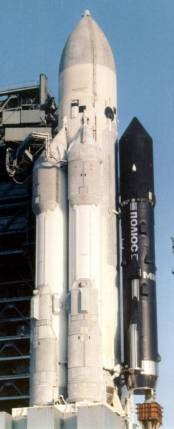
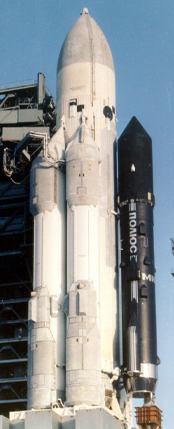
energia gallery image upd and caption test

diff --git a/b14643/Spacerockets_1/East_Europe_2/Energiya/Gallery/Energiya.htm b/b14643/Spacerockets_1/East_Europe_2/Energiya/Gallery/Energiya.htm
@@ -22,18 +22,24 @@
   <tr>
     <td width="48%" height="1" nowrap>
     <p align="center"><font size="1">
-    <img border="0" src="En_19.jpg" width="244" height="369"></font></p>
+    <a target="_blank" style="padding: 0" href="En_19big.jpg">
+    <img border="1" src="En_19.jpg" width="258" height="391"></a></font></p>
     </td>
     <td valign="top" width="52%" height="1" nowrap>
     <p align="center"><font size="1"><br>
-    <img border="0" src="En_41.JPG" width="260" height="391"></font></p>
+    <a style="padding: 0" target="_blank" href="En_41big.jpg">
+    <img border="1" src="En_41big.jpg" width="256" height="391"></a></font></p>
     </td>
+  </tr>
+  <tr align="center">
+    <td><font color="#808080">Image: Igor Kurashov/RG</font></td>
+    <td><font color="#808080">Image: Sovfoto/UIG</font></td>
   </tr>
   <tr>
     <td width="48%" height="1" nowrap>
     <p align="center"><font size="1"><br>
     <a target="_blank" style="padding: 0" href="En_40big.jpg">
-    <img border="1" src="En_40.jpg" width="252" height="400"></a></font></p>
+    <img border="1" src="En_40.jpg" width="293" height="400"></a></font></p>
     </td>
     <td valign="top" width="52%" height="1" nowrap>
     <p align="center"><font size="1"><br>
@@ -41,14 +47,29 @@
     <img border="1" src="En_33.jpg" width="274" height="392"></a></font></p>
     </td>
   </tr>
+  <tr align="center">
+    <td><font color="#808080">Image: Boris Gubanov</font></td>
+  </tr>
   <tr>
     <td width="100%" height="1" colspan="2" nowrap>
     <p align="center"><font size="1"><br>
     <a style="padding: 0" target="_blank" href="En_48big.JPG">
     <img border="1" src="En_48.jpg" width="179" height="370"></a>&nbsp;&nbsp;&nbsp;&nbsp;&nbsp;&nbsp;&nbsp;&nbsp;&nbsp;&nbsp;&nbsp;
-    <img border="0" src="En_42.jpg" width="249" height="370">&nbsp;&nbsp;&nbsp;&nbsp;&nbsp;&nbsp;&nbsp;&nbsp;&nbsp;&nbsp;&nbsp;
+    <a style="padding: 0" target="_blank" href="En_42big.jpg">
+    <img border="1" src="En_42.jpg" width="249" height="370">&nbsp;&nbsp;&nbsp;&nbsp;&nbsp;&nbsp;&nbsp;&nbsp;&nbsp;&nbsp;&nbsp;
     <a style="padding: 0" target="_blank" href="En_47big.jpg">
     <img border="1" src="En_47.jpg" width="232" height="371"></a></font></p>
+    </td>
+  </tr>
+  <tr align="center">
+    <td width="100%" height="1" colspan="2" nowrap>
+      <table>
+        <tr align="center">
+          <td width="179"><font color="#808080">Image: NPO Molniya</font></td>
+          <td width="249"><font color="#808080">Image: Albert Pushkarev/TASS</font></td>
+          <td width="232"><font color="#808080"></font></td>
+        </tr>
+      </table>
     </td>
   </tr>
   <tr>
@@ -81,11 +102,12 @@
     <a style="padding: 0" target="_blank" href="BURAN.JPG">
     <img border="1" src="BURAN_small.jpg" width="532" height="280"></a>&nbsp;
     <a style="padding: 0" target="_blank" href="En_38big.jpg">
-    <img border="1" src="En_38.jpg" width="294" height="280"></a><br>
-&nbsp;&nbsp;&nbsp;&nbsp;&nbsp;&nbsp;&nbsp;&nbsp;&nbsp;&nbsp;&nbsp;&nbsp;&nbsp;&nbsp;&nbsp;&nbsp;&nbsp;&nbsp;&nbsp;&nbsp;&nbsp;&nbsp;&nbsp;&nbsp;&nbsp;&nbsp;&nbsp;&nbsp;&nbsp;&nbsp;&nbsp;&nbsp;&nbsp;&nbsp;&nbsp;&nbsp;&nbsp;&nbsp;&nbsp;&nbsp;&nbsp;&nbsp;&nbsp;&nbsp;&nbsp;&nbsp;&nbsp;&nbsp;&nbsp;&nbsp;
-    </font><font size="2">Orbiter Buran&nbsp;&nbsp;&nbsp;&nbsp;&nbsp;&nbsp;&nbsp;&nbsp;&nbsp;&nbsp;&nbsp;&nbsp;&nbsp;&nbsp;&nbsp;&nbsp;&nbsp;&nbsp;&nbsp;&nbsp;&nbsp;&nbsp;&nbsp;&nbsp;&nbsp;&nbsp;&nbsp;&nbsp;&nbsp;&nbsp;&nbsp;&nbsp;&nbsp;&nbsp;&nbsp;&nbsp;&nbsp;&nbsp;&nbsp;&nbsp;&nbsp;&nbsp;&nbsp;&nbsp;&nbsp;&nbsp;&nbsp;&nbsp;&nbsp;&nbsp;&nbsp;&nbsp;&nbsp;&nbsp;&nbsp;&nbsp;&nbsp;&nbsp;&nbsp;&nbsp;&nbsp;&nbsp;&nbsp;&nbsp;&nbsp;&nbsp;&nbsp;&nbsp;&nbsp;&nbsp;&nbsp;&nbsp;&nbsp;&nbsp;&nbsp;&nbsp;&nbsp;&nbsp;&nbsp;&nbsp;&nbsp;&nbsp;&nbsp;&nbsp;&nbsp;&nbsp;&nbsp;&nbsp;&nbsp;&nbsp;&nbsp;&nbsp;&nbsp;&nbsp;&nbsp;&nbsp;&nbsp;&nbsp;&nbsp; 
-    Orbiter rear with engine RD-58S</font></p>
+    <img border="1" src="En_38.jpg" width="294" height="280"></a><br></p>
     </td>
+  </tr>
+  <tr align="center">
+    <td width="65%">Buran orbiter</td>
+    <td width="35%">Orbiter rear with the RD-58S engine</td>
   </tr>
   <tr>
     <td width="48%" height="1" nowrap>

diff --git a/b14643/Spacerockets_1/East_Europe_2/Energiya/Gallery/Polyuz.htm b/b14643/Spacerockets_1/East_Europe_2/Energiya/Gallery/Polyuz.htm
@@ -24,18 +24,19 @@
     <p align="center"><font size="1"><br>
     </font><a target="_blank" href="Polyuz_big.jpg">
     <img border="1" src="Polyuz.jpg" width="378" height="594"></a></p>
-    <p align="center"><img border="0" src="En_22.jpg" width="445" height="280"></p>
+    <p align="center"><a target="_blank" href="En_22.jpg">
+    <img border="1" src="En_22big.jpg" width="445" height="280"></a></p>
     <p align="center"><a target="_blank" href="En_25big.jpg">
     <img border="1" src="En_25.jpg" width="344" height="253"></a></p>
     <p align="center"><a target="_blank" href="En_1big.jpg">
-    <img border="1" src="En_1.jpg" width="312" height="404"></a></p>
+    <img border="1" src="En_1.jpg" width="271" height="404"></a></p>
     </td>
     <td width="52%" height="3" nowrap>
     <p align="center"><font size="1"><br>
     <a target="_blank" href="En_20big.jpg">
     <img border="1" src="En_20.jpg" width="174" height="429"></a>&nbsp;&nbsp;
     <a target="_blank" href="En_37big.jpg">
-    <img border="1" src="En_37.jpg" width="221" height="428"></a></font></p>
+    <img border="1" src="En_37.jpg" width="221" height="429"></a></font></p>
     <p align="center">
     <a target="_blank" href="Polyus_1.jpg">
     <img border="1" src="Polyus_1.jpg" width="272" height="459"></p>
